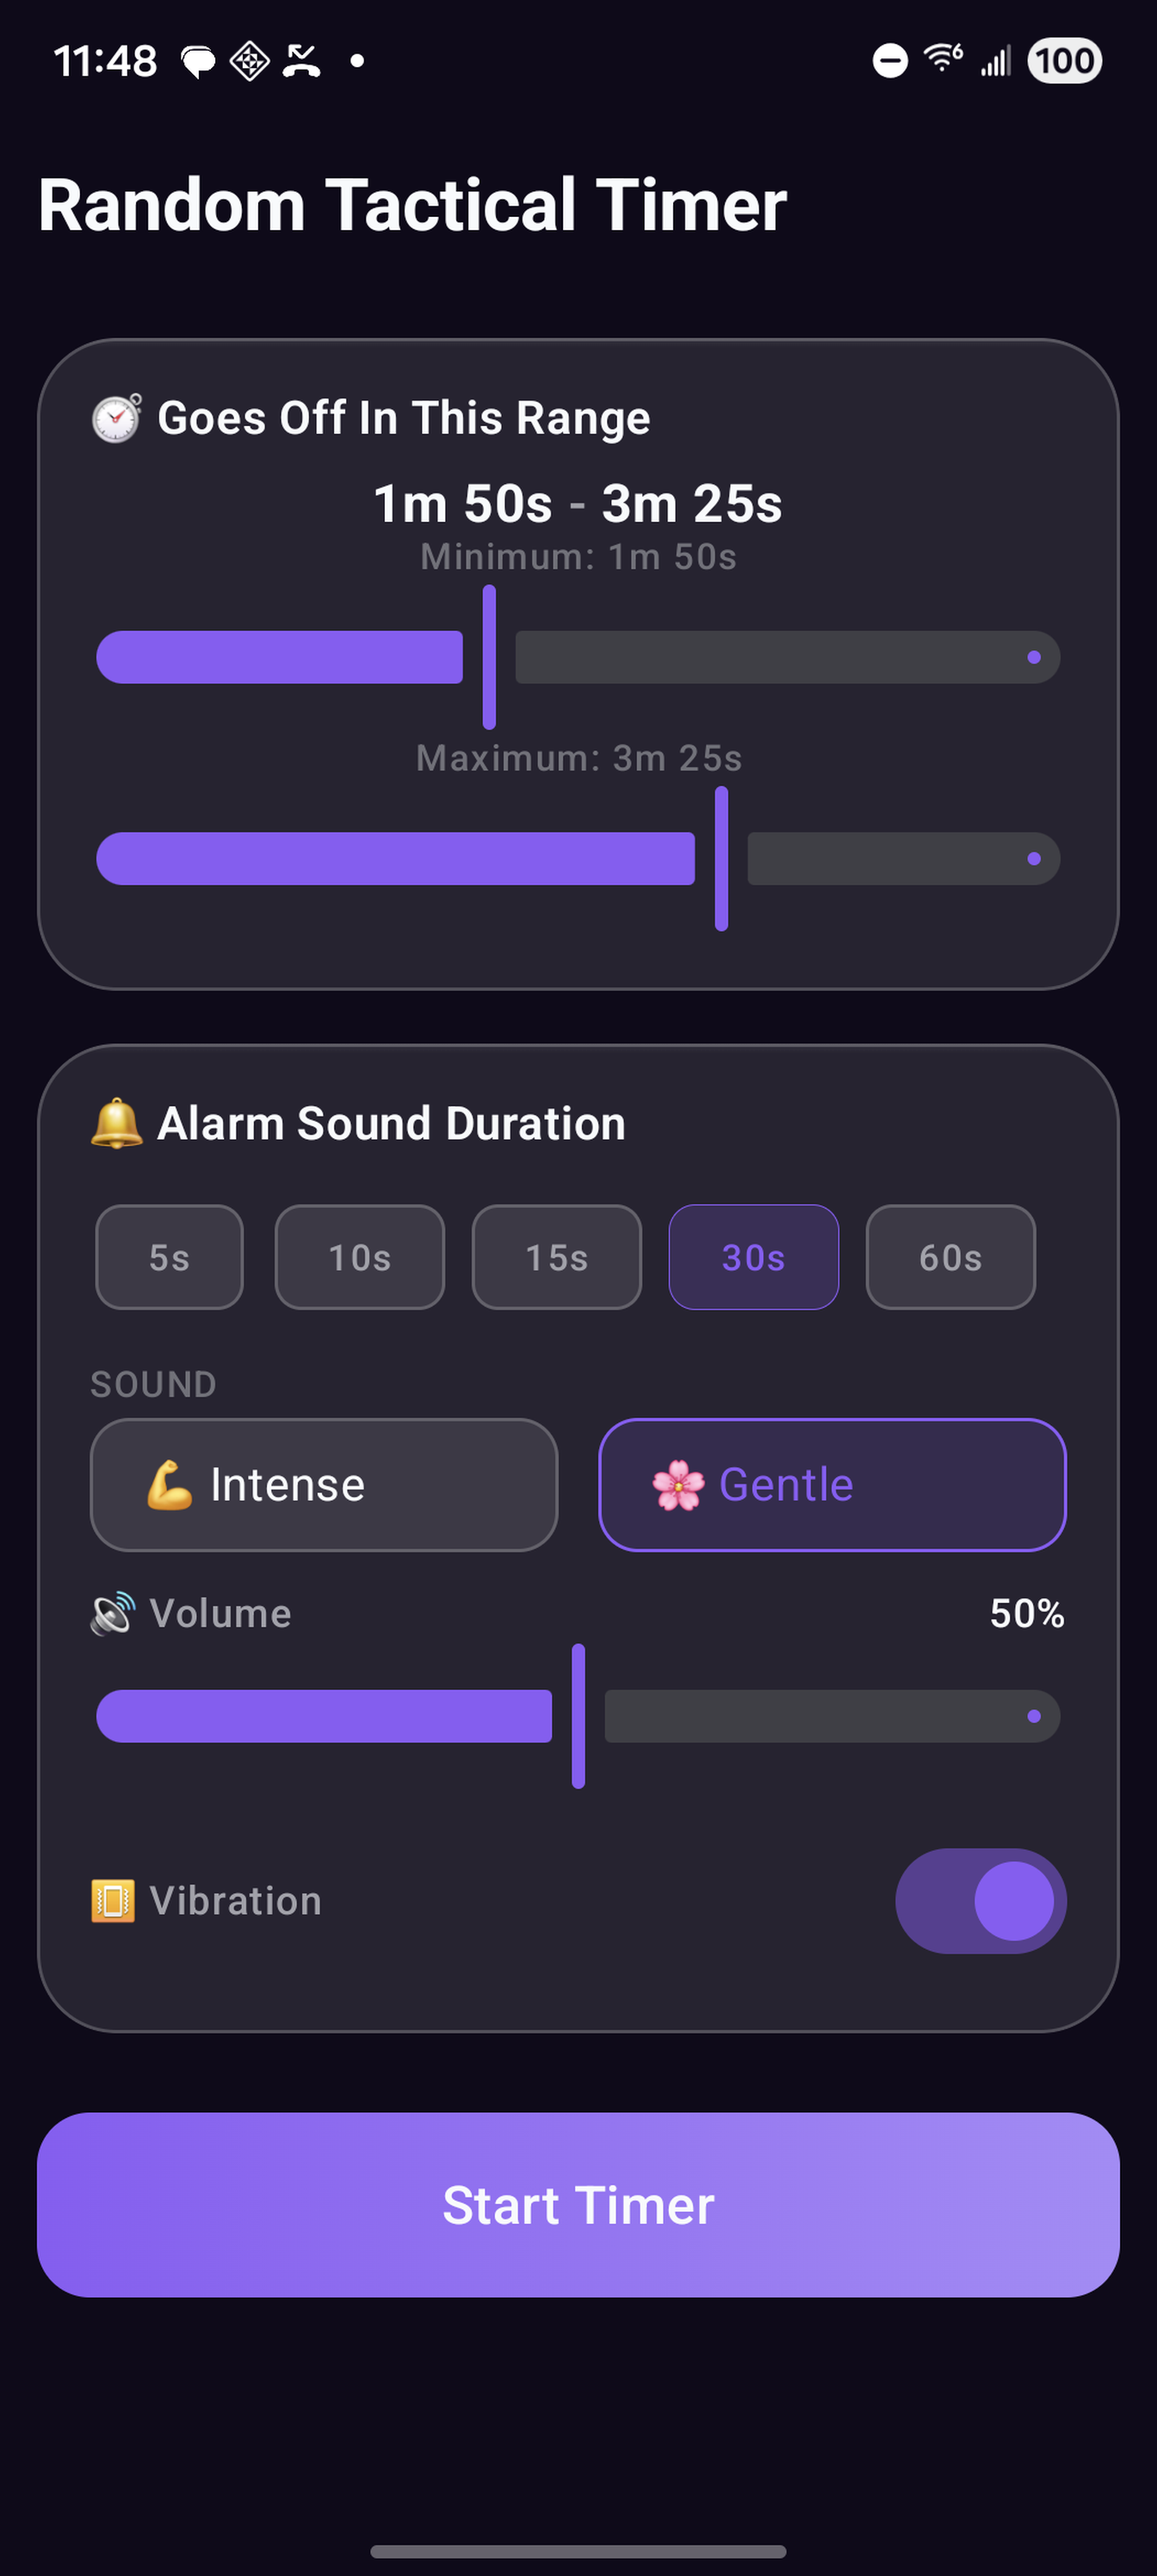
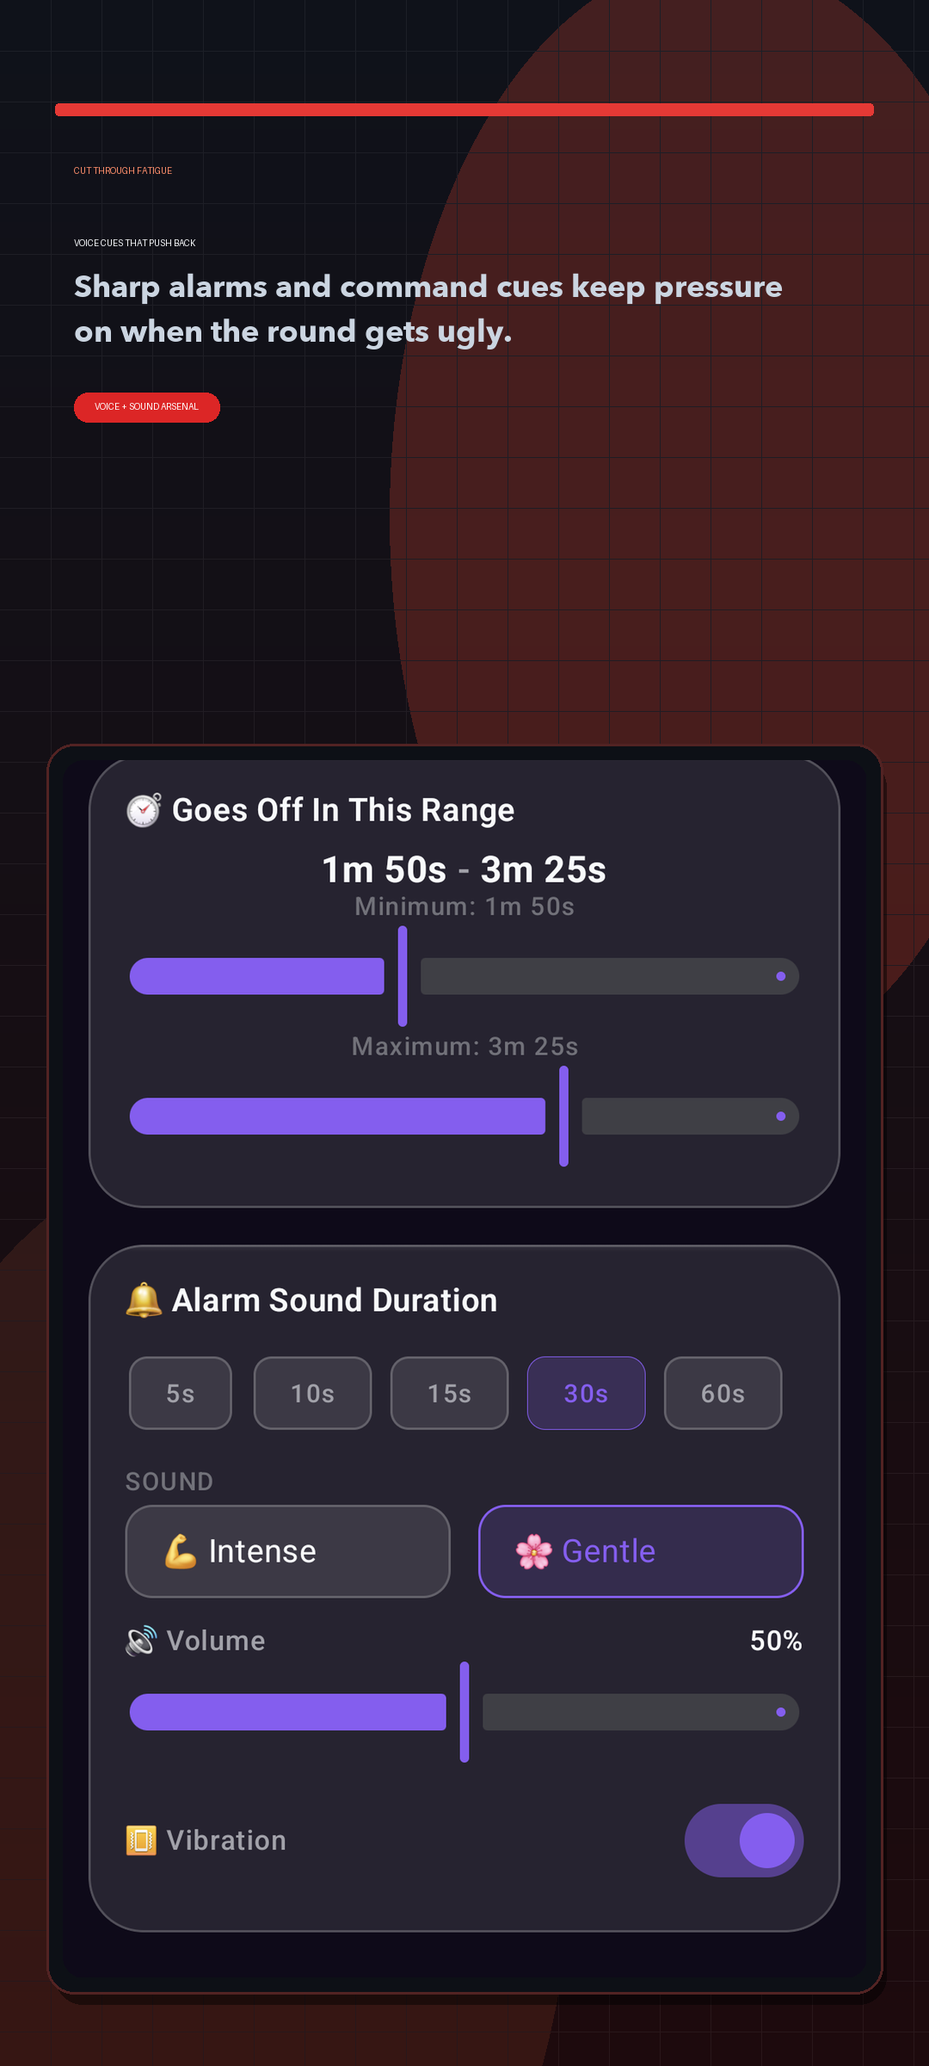
feat(android): marketing overlay screenshots matching iOS store listing
Upgraded generate_android_store_creatives.py to render the same
creative treatment as iOS: gradient backgrounds, marketing headlines,
subtitle text, badges, and device panel framing.

Screenshots now show:
- 1_setup: "RANDOMIZE EVERY REP"
- 2_active: "NO COUNTDOWN TO CHEAT"
- 3_settings: "VOICE CUES THAT PUSH BACK"
- 3_voice: "HEAR IT. REACT."
- 4_loop: "RESET FAST. GO AGAIN."

diff --git a/scripts/generate_android_store_creatives.py b/scripts/generate_android_store_creatives.py
@@ -1,5 +1,9 @@
 #!/usr/bin/env python3
-"""Generate Google Play Android creatives from canonical app assets."""
+"""Generate Google Play Android creatives with marketing overlays.
+
+Matches the iOS creative pipeline: gradient backgrounds, marketing
+headlines, device panel framing, badges. Ensures store listing parity.
+"""
 
 from __future__ import annotations
 
@@ -16,15 +20,56 @@ from PIL import Image, ImageDraw, ImageFont, ImageOps
 
 Color = Tuple[int, int, int]
 
-SCREENSHOT_MAP = {
-    "1_setup.png": "android-setup.png",
-    "2_active.png": "android-active.png",
-    "3_settings.png": "android-settings.png",
-    "4_loop.png": "android-loop.png",
-}
-
-PLAY_SCREENSHOT_SIZE = (1344, 2992)
+PLAY_SCREENSHOT_SIZE = (1080, 2400)  # Standard Android phone (Pixel 7 class)
 FEATURE_GRAPHIC_SIZE = (1024, 500)
+
+
+@dataclass(frozen=True)
+class CreativeSpec:
+    eyebrow: str
+    title: str
+    subtitle: str
+    badge: str
+    centering: Tuple[float, float] = (0.5, 0.08)
+
+
+CREATIVE_COPY: Dict[str, CreativeSpec] = {
+    "1_setup.png": CreativeSpec(
+        eyebrow="SET THE WINDOW",
+        title="RANDOMIZE EVERY REP",
+        subtitle="Choose the range. The app chooses the moment. Your job is to react.",
+        badge="DRY FIRE \u2022 STRIKING \u2022 HIIT",
+        centering=(0.5, 0.16),
+    ),
+    "2_active.png": CreativeSpec(
+        eyebrow="KILL ANTICIPATION",
+        title="NO COUNTDOWN TO CHEAT",
+        subtitle="Unpredictable start cues stop rhythm gaming and force a real reaction.",
+        badge="PURE REACTION WORK",
+        centering=(0.5, 0.18),
+    ),
+    "3_settings.png": CreativeSpec(
+        eyebrow="CUT THROUGH FATIGUE",
+        title="VOICE CUES THAT PUSH BACK",
+        subtitle="Sharp alarms and command cues keep pressure on when the round gets ugly.",
+        badge="VOICE + SOUND ARSENAL",
+        centering=(0.5, 0.42),
+    ),
+    "3_voice.png": CreativeSpec(
+        eyebrow="COMMAND THE SESSION",
+        title="HEAR IT. REACT.",
+        subtitle="Timed voice callouts keep you sharp when fatigue clouds your focus.",
+        badge="PRO VOICE ENGINE",
+        centering=(0.5, 0.20),
+    ),
+    "4_loop.png": CreativeSpec(
+        eyebrow="BETWEEN ROUNDS",
+        title="RESET FAST. GO AGAIN.",
+        subtitle="Pause, resume, and loop rounds without breaking the flow of the drill.",
+        badge="ROUND CONTROL",
+        centering=(0.5, 0.20),
+    ),
+}
 
 
 @dataclass(frozen=True)
@@ -74,13 +119,175 @@ def _write_png(path: Path, image: Image.Image) -> None:
     image.save(path, format="PNG", optimize=True)
 
 
-def _render_play_screenshot(source: Image.Image) -> Image.Image:
-    return ImageOps.fit(
-        source.convert("RGB"),
-        PLAY_SCREENSHOT_SIZE,
-        method=Image.Resampling.LANCZOS,
-        centering=(0.5, 0.06),
+def _wrapped_lines(
+    draw: ImageDraw.ImageDraw,
+    text: str,
+    font: ImageFont.ImageFont,
+    max_width: int,
+) -> list[str]:
+    words = text.split()
+    lines: list[str] = []
+    current: list[str] = []
+    for word in words:
+        candidate = " ".join([*current, word]).strip()
+        bbox = draw.textbbox((0, 0), candidate, font=font)
+        if current and (bbox[2] - bbox[0]) > max_width:
+            lines.append(" ".join(current))
+            current = [word]
+        else:
+            current.append(word)
+    if current:
+        lines.append(" ".join(current))
+    return lines
+
+
+def _draw_multiline(
+    draw: ImageDraw.ImageDraw,
+    lines: list[str],
+    *,
+    x: int,
+    y: int,
+    font: ImageFont.ImageFont,
+    fill: Color,
+    line_spacing: int,
+) -> int:
+    current_y = y
+    for line in lines:
+        draw.text((x, current_y), line, font=font, fill=fill)
+        bbox = draw.textbbox((x, current_y), line, font=font)
+        current_y = bbox[3] + line_spacing
+    return current_y
+
+
+def _render_play_screenshot(source: Image.Image, spec: CreativeSpec) -> Image.Image:
+    """Render a Play Store screenshot with marketing overlay matching iOS style."""
+    w, h = PLAY_SCREENSHOT_SIZE
+    base = Image.new("RGBA", (w, h), (9, 11, 16, 255))
+
+    # Gradient background
+    background = ImageDraw.Draw(base)
+    top_color = (15, 18, 26)
+    bottom_color = (29, 10, 13)
+    for y in range(h):
+        ratio = y / max(1, h - 1)
+        background.line([(0, y), (w, y)], fill=_mix_color(top_color, bottom_color, ratio))
+
+    # Glow overlays
+    overlay = Image.new("RGBA", (w, h), (0, 0, 0, 0))
+    glow = ImageDraw.Draw(overlay)
+    glow.ellipse(
+        (int(w * 0.42), int(h * -0.02), int(w * 1.12), int(h * 0.52)),
+        fill=(235, 72, 50, 62),
     )
+    glow.ellipse(
+        (int(w * -0.18), int(h * 0.56), int(w * 0.62), int(h * 1.18)),
+        fill=(255, 122, 69, 28),
+    )
+
+    # Grid
+    grid_color = (255, 255, 255, 14)
+    grid_step = max(40, int(min(w, h) * 0.055))
+    for x in range(grid_step, w, grid_step):
+        glow.line([(x, 0), (x, h)], fill=grid_color, width=1)
+    for y_pos in range(grid_step, h, grid_step):
+        glow.line([(0, y_pos), (w, y_pos)], fill=grid_color, width=1)
+
+    # Header bar
+    glow.rounded_rectangle(
+        (int(w * 0.06), int(h * 0.05), int(w * 0.94), int(h * 0.056)),
+        radius=4,
+        fill=(229, 57, 53, 255),
+    )
+    base = Image.alpha_composite(base, overlay)
+
+    draw = ImageDraw.Draw(base)
+    content_left = int(w * 0.08)
+    content_width = int(w * 0.8)
+
+    # Typography
+    eyebrow_font = _load_font(max(24, int(h * 0.012)), bold=True)
+    title_font = _load_font(max(64, int(h * 0.042)), bold=True)
+    subtitle_font = _load_font(max(26, int(h * 0.015)), bold=False)
+    badge_font = _load_font(max(22, int(h * 0.011)), bold=True)
+
+    # Eyebrow
+    current_y = int(h * 0.08)
+    draw.text((content_left, current_y), spec.eyebrow, font=eyebrow_font, fill=(255, 143, 107))
+    current_y += int(h * 0.035)
+
+    # Title
+    title_lines = _wrapped_lines(draw, spec.title, title_font, content_width)
+    current_y = _draw_multiline(
+        draw, title_lines, x=content_left, y=current_y,
+        font=title_font, fill=(248, 250, 252),
+        line_spacing=max(6, int(h * 0.004)),
+    )
+
+    # Subtitle
+    current_y += int(h * 0.006)
+    subtitle_lines = _wrapped_lines(draw, spec.subtitle, subtitle_font, content_width)
+    current_y = _draw_multiline(
+        draw, subtitle_lines, x=content_left, y=current_y,
+        font=subtitle_font, fill=(203, 213, 225),
+        line_spacing=max(4, int(h * 0.003)),
+    )
+
+    # Badge
+    badge_bbox = draw.textbbox((0, 0), spec.badge, font=badge_font)
+    badge_width = (badge_bbox[2] - badge_bbox[0]) + 48
+    badge_height = (badge_bbox[3] - badge_bbox[1]) + 26
+    badge_y = current_y + int(h * 0.018)
+    draw.rounded_rectangle(
+        (content_left, badge_y, content_left + badge_width, badge_y + badge_height),
+        radius=16,
+        fill=(220, 38, 38),
+    )
+    draw.text((content_left + 24, badge_y + 10), spec.badge, font=badge_font, fill=(255, 255, 255))
+
+    # Device panel
+    panel_top = int(h * 0.36)
+    panel_left = int(w * 0.05)
+    panel_right = int(w * 0.95)
+    panel_bottom = int(h * 0.965)
+    panel_radius = max(28, int(w * 0.03))
+
+    # Panel shadow
+    shadow = Image.new("RGBA", (w, h), (0, 0, 0, 0))
+    shadow_draw = ImageDraw.Draw(shadow)
+    shadow_draw.rounded_rectangle(
+        (panel_left + 10, panel_top + 18, panel_right + 4, panel_bottom + 12),
+        radius=panel_radius,
+        fill=(0, 0, 0, 120),
+    )
+    base = Image.alpha_composite(base, shadow)
+    draw = ImageDraw.Draw(base)
+
+    # Panel border
+    draw.rounded_rectangle(
+        (panel_left, panel_top, panel_right, panel_bottom),
+        radius=panel_radius,
+        fill=(13, 16, 22),
+        outline=(82, 35, 35),
+        width=3,
+    )
+
+    # Fit source screenshot into panel
+    inner_margin = int(w * 0.018)
+    target_w = (panel_right - panel_left) - (inner_margin * 2)
+    target_h = (panel_bottom - panel_top) - (inner_margin * 2)
+    ui_frame = ImageOps.fit(
+        source, (target_w, target_h),
+        method=Image.Resampling.LANCZOS,
+        centering=spec.centering,
+    )
+    mask = Image.new("L", (target_w, target_h), 0)
+    ImageDraw.Draw(mask).rounded_rectangle(
+        (0, 0, target_w, target_h),
+        radius=max(20, int(panel_radius * 0.75)),
+        fill=255,
+    )
+    base.paste(ui_frame, (panel_left + inner_margin, panel_top + inner_margin), mask)
+    return base.convert("RGB")
 
 
 def _feature_card(source: Image.Image, *, size: tuple[int, int], radius: int) -> Image.Image:
@@ -118,9 +325,7 @@ def _render_feature_graphic(icon: Image.Image, screenshots: list[Image.Image]) -
     ImageDraw.Draw(icon_mask).rounded_rectangle((0, 0, icon_size, icon_size), radius=28, fill=255)
     icon_shadow = Image.new("RGBA", (icon_size + 18, icon_size + 18), (0, 0, 0, 0))
     ImageDraw.Draw(icon_shadow).rounded_rectangle(
-        (12, 12, icon_size + 6, icon_size + 6),
-        radius=32,
-        fill=(0, 0, 0, 110),
+        (12, 12, icon_size + 6, icon_size + 6), radius=32, fill=(0, 0, 0, 110),
     )
     canvas.alpha_composite(icon_shadow, (54, 56))
     icon_rgba = Image.new("RGBA", (icon_size, icon_size), (0, 0, 0, 0))
@@ -133,24 +338,19 @@ def _render_feature_graphic(icon: Image.Image, screenshots: list[Image.Image]) -
     draw.text((text_x, 96), FEATURE_COPY.title, font=title_font, fill=(247, 250, 252))
     draw.text((text_x, 152), FEATURE_COPY.subtitle, font=subtitle_font, fill=(203, 213, 225))
 
-    card_one = _feature_card(screenshots[0], size=(188, 408), radius=24)
-    card_two = _feature_card(screenshots[1], size=(188, 408), radius=24)
-    card_three = _feature_card(screenshots[2], size=(188, 408), radius=24)
-
+    cards = [_feature_card(s, size=(188, 408), radius=24) for s in screenshots[:3]]
     shadow = Image.new("RGBA", FEATURE_GRAPHIC_SIZE, (0, 0, 0, 0))
     shadow_draw = ImageDraw.Draw(shadow)
     for x, y in ((720, 56), (828, 86), (612, 112)):
         shadow_draw.rounded_rectangle((x + 10, y + 16, x + 198, y + 424), radius=28, fill=(0, 0, 0, 110))
     canvas = Image.alpha_composite(canvas, shadow)
-    canvas.alpha_composite(card_one, (720, 56))
-    canvas.alpha_composite(card_two, (828, 86))
-    canvas.alpha_composite(card_three, (612, 112))
+    for (x, y), card in zip(((720, 56), (828, 86), (612, 112)), cards):
+        canvas.alpha_composite(card, (x, y))
 
     return canvas.convert("RGB")
 
 
 def generate(repo_root: Path) -> Dict[str, object]:
-    raw_root = repo_root / "screenshots"
     metadata_root = repo_root / "native-android" / "fastlane" / "metadata" / "android" / "en-US" / "images"
     screenshots_dir = metadata_root / "phoneScreenshots"
     feature_graphic_path = metadata_root / "featureGraphic" / "feature-graphic.png"
@@ -172,25 +372,30 @@ def generate(repo_root: Path) -> Dict[str, object]:
     written_files: list[str] = [str(play_icon_path)]
     rendered_screenshots: list[Image.Image] = []
 
+    # Backup existing screenshots
     backup_root = screenshots_dir / "_backup"
     timestamp = datetime.now(timezone.utc).strftime("%Y%m%d_%H%M%S")
     backup_dir = backup_root / timestamp
     screenshots_dir.mkdir(parents=True, exist_ok=True)
 
-    for filename, raw_name in SCREENSHOT_MAP.items():
-        raw_path = raw_root / raw_name
-        if not raw_path.is_file():
-            raise FileNotFoundError(f"Raw Android screenshot missing: {raw_path}")
-        target_path = screenshots_dir / filename
-        if target_path.is_file():
+    for filename, spec in CREATIVE_COPY.items():
+        source_path = screenshots_dir / filename
+        if not source_path.is_file():
+            print(f"Warning: source screenshot missing, skipping: {source_path}")
+            continue
+
+        # Backup original
+        if source_path.is_file():
             backup_dir.mkdir(parents=True, exist_ok=True)
-            shutil.copy2(target_path, backup_dir / filename)
+            shutil.copy2(source_path, backup_dir / filename)
 
-        rendered = _render_play_screenshot(Image.open(raw_path))
-        _write_png(target_path, rendered)
+        raw_source = Image.open(source_path).convert("RGB")
+        rendered = _render_play_screenshot(raw_source, spec)
+        _write_png(source_path, rendered)
         rendered_screenshots.append(rendered)
-        written_files.append(str(target_path))
+        written_files.append(str(source_path))
 
+    # Feature graphic
     feature_graphic_path.parent.mkdir(parents=True, exist_ok=True)
     feature_graphic = _render_feature_graphic(icon_image, rendered_screenshots[:3])
     _write_png(feature_graphic_path, feature_graphic)
@@ -200,7 +405,6 @@ def generate(repo_root: Path) -> Dict[str, object]:
         "status": "success",
         "generated_at": _now_iso(),
         "source_icon": str(source_icon_path),
-        "raw_screenshots": {name: str(raw_root / raw_name) for name, raw_name in SCREENSHOT_MAP.items()},
         "written_files": written_files,
         "backup_dir": str(backup_dir) if backup_dir.is_dir() else None,
     }
@@ -211,7 +415,7 @@ def generate(repo_root: Path) -> Dict[str, object]:
 
 
 def main() -> int:
-    parser = argparse.ArgumentParser(description="Generate Android Google Play creative assets.")
+    parser = argparse.ArgumentParser(description="Generate Android Google Play creative assets with marketing overlays.")
     parser.add_argument("--repo-root", default=".")
     args = parser.parse_args()
     report = generate(Path(args.repo_root).resolve())
